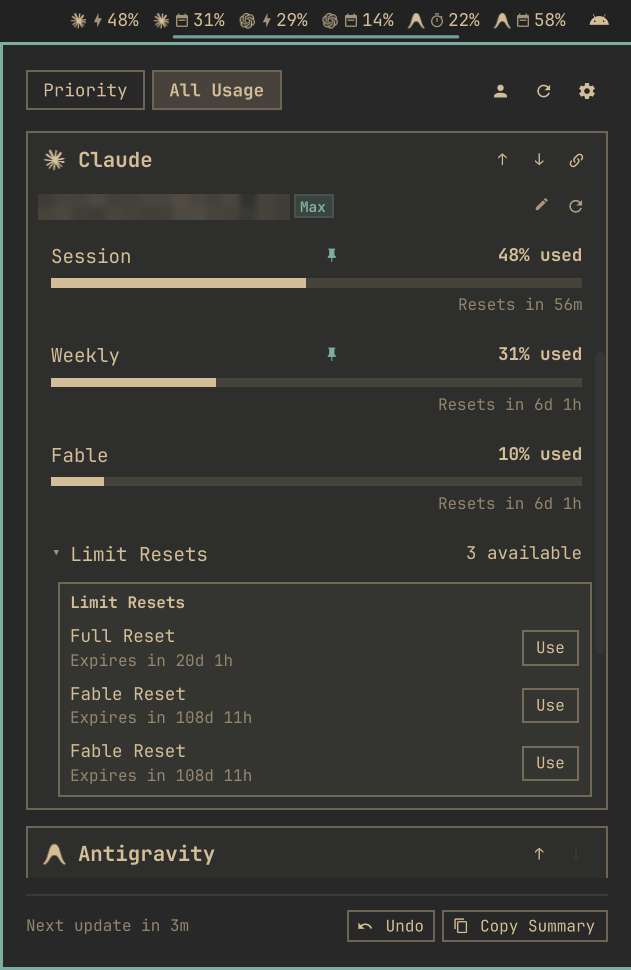
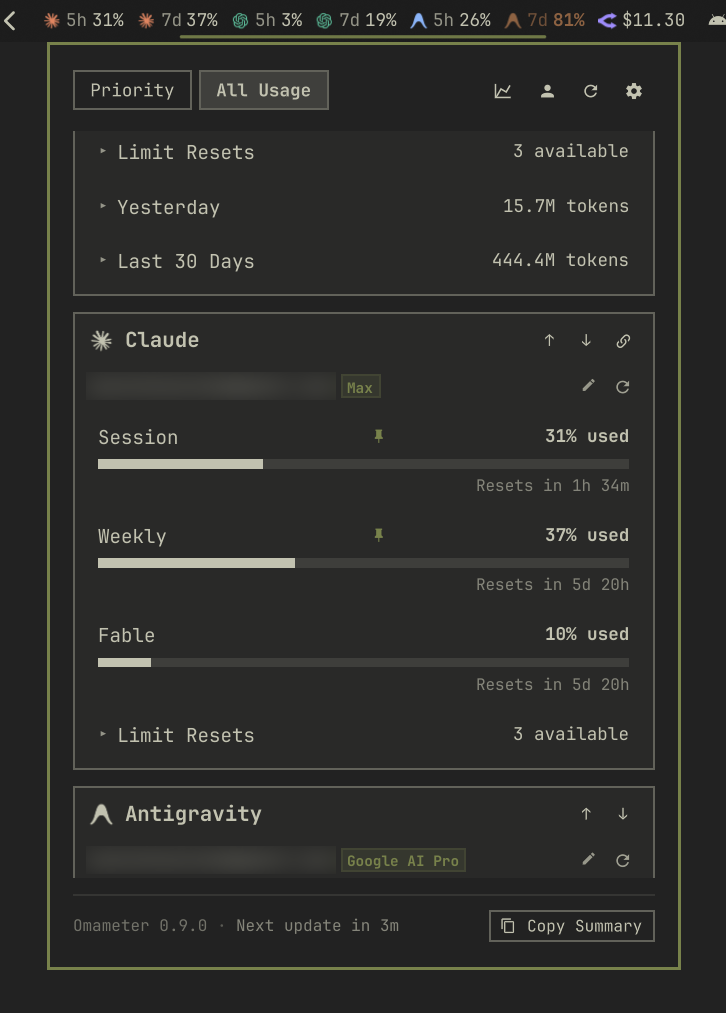
Refresh product screenshots and add a marketplace preview
Replace the old screenshots with current ones (Analytics window, Priority
tab, top bar tooltip, All Usage, Accounts, Settings), with emails and
private project names blurred, and add a root preview.png for the
Omarchy plugin marketplace card.

Changed region(s): [[0.0, 0.0, 1.0, 1.0], [0.6926, 0.1856, 0.8732, 0.2165], [0.6624, 0.6495, 0.6926, 0.6804]]

diff --git a/README.md b/README.md
@@ -6,9 +6,15 @@ Omameter is a native [Omarchy](https://omarchy.org) shell plugin (`service` + `b
 
 ## Screenshots
 
-| Priority | All Usage | Settings |
+![Analytics window with API-equivalent cost trend, models and projects](docs/screenshots/analytics.png)
+
+| Priority | Top bar tooltip | All Usage |
 |---|---|---|
-| ![Priority tab with pinned limits](docs/screenshots/priority.png) | ![All Usage tab with the top bar strip](docs/screenshots/all-usage.png) | ![Settings, General tab](docs/screenshots/settings.png) |
+| ![Priority tab with pinned limits and the top bar strip](docs/screenshots/priority.png) | ![Top bar tooltip with every limit at a glance](docs/screenshots/tooltip.png) | ![All Usage tab with per-account limits and resets](docs/screenshots/all-usage.png) |
+
+| Accounts | Settings |
+|---|---|
+| ![Accounts list with sign-in methods and plans](docs/screenshots/accounts.png) | ![Settings, General tab](docs/screenshots/settings.png) |
 
 ---
 
